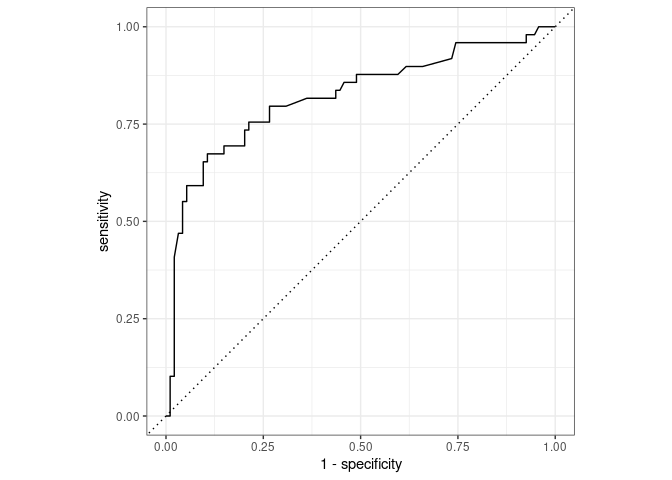
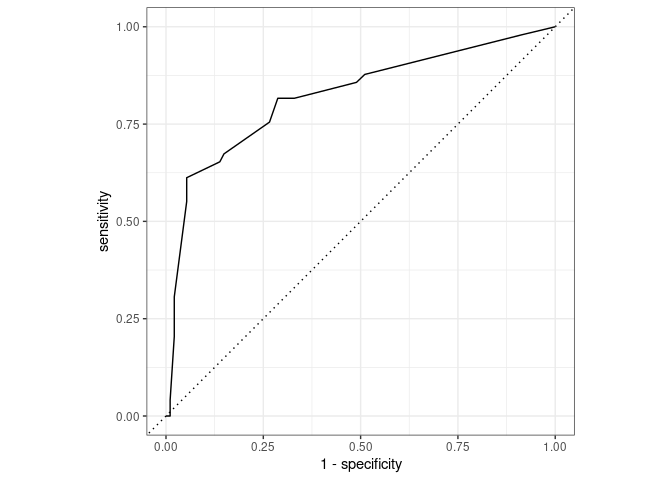
worked on model within presentation

diff --git a/presentation/presentation.html b/presentation/presentation.html
@@ -43,15 +43,13 @@ class: center, middle, inverse, title-slide
 - Bibliography
 
 ---
-
 "Touted as the ultimate in transatlantic travel and said to be “unsinkable”, the Titanic collided with an iceberg on 14 April 1912 on her maiden voyage and sank shortly thereafter on 15 April, killing 1502 out of 2224 passengers and crew." [1]
 
 We want to see 
 
 ### If and how the chance of survival of Titanic passengers is related to different attributes of the passengers 
 
---- 
-
+---
 # Data set
 * The data set comes from the Awesome Public Data Sets on GitHub[2]
 
@@ -162,13 +160,123 @@ class: inverse, center, middle
 
 
 
+### Modelling Survival
++ **predictor/explanatory variables**:
+  + Age
+  + Passenger class
+  + Gender
++ **ID variable**: passenger ID
++ **response variable**: survival
+  + categorical, two levels ...
+{{content}}
+--
+`\(\rightarrow\)` **logistic regression modelling**
+--
 
+```
+## # A tibble: 7 × 5
+##   term         estimate std.error statistic  p.value
+##   &lt;chr&gt;           &lt;dbl&gt;     &lt;dbl&gt;     &lt;dbl&gt;    &lt;dbl&gt;
+## 1 (Intercept)      4.51     0.549      8.22 2.08e-16
+## 2 Pclass_X2       -1.40     0.311     -4.52 6.27e- 6
+## 3 Pclass_X3       -2.53     0.298     -8.52 1.67e-17
+## 4 Sex_male        -2.69     0.245    -11.0  4.88e-28
+## 5 Age_X.6.18.     -1.80     0.530     -3.39 6.88e- 4
+## 6 Age_X.18.54.    -1.71     0.451     -3.78 1.54e- 4
+## 7 Age_X.54.80.    -2.80     0.647     -4.33 1.52e- 5
+```
+---
+.pull-left[
+### Modelling Survival: Interpretation
+Note: using main effects (vs. interactions) `\(\rightarrow\)` results can still be interpreted with 3 explanatory variables. 
++ **Intercept**: 
+    &gt; A positive value of the intercept indicates that a female, first class passenger, aged 0 to 6 is expected to survive according to the model.
+]
 
+.pull-right[
 
+```
+## # A tibble: 7 × 5
+##   term         estimate std.error statistic  p.value
+##   &lt;chr&gt;           &lt;dbl&gt;     &lt;dbl&gt;     &lt;dbl&gt;    &lt;dbl&gt;
+## 1 (Intercept)      4.51     0.549      8.22 2.08e-16
+## 2 Pclass_X2       -1.40     0.311     -4.52 6.27e- 6
+## 3 Pclass_X3       -2.53     0.298     -8.52 1.67e-17
+## 4 Sex_male        -2.69     0.245    -11.0  4.88e-28
+## 5 Age_X.6.18.     -1.80     0.530     -3.39 6.88e- 4
+## 6 Age_X.18.54.    -1.71     0.451     -3.78 1.54e- 4
+## 7 Age_X.54.80.    -2.80     0.647     -4.33 1.52e- 5
+```
+]
 
+  + **coefficents** for *Class*: 
 
+    &gt; All else held constant, second class passengers correspond to a negative coefficent which reflects a lower likelyhood of survival compared to first class passengers.
+      + Similarly, third class passengers have an even more negative gradient which indicates that the model predicts them to have an even lower likelyhood of survival. 
+  
+  + **coefficent** for *Gender*:
+  
+    &gt; All else held constant, male passengers correspond to a negative coefficent which reflects a lower likelyhood of survival compared to female passengers.
+      
+  + **coefficents** for *Age*: 
 
+    &gt; All else held constant, compared to passengers aged 0-6 ('young children'), passengers in age range from 6 to 18 ('adolescents')are expected to be less likely to survive. 
+      + similarly, passengers aged 18 to 54 ('adults') are also less likely to survive (similar gradeint to 6-18)
+      + passengers aged 54 to 80 ('elderly people') are even less likely to survive than the other age ranges
+    
+---
 
+```
+## # A tibble: 143 × 4
+##    .pred_0 .pred_1 Survived PassengerId
+##      &lt;dbl&gt;   &lt;dbl&gt; &lt;fct&gt;          &lt;int&gt;
+##  1   0.473  0.527  0                  7
+##  2   0.919  0.0812 0                 13
+##  3   0.424  0.576  1                 16
+##  4   0.434  0.566  1                 26
+##  5   0.473  0.527  0                 36
+##  6   0.198  0.802  0                 42
+##  7   0.456  0.544  0                 50
+##  8   0.198  0.802  1                 54
+##  9   0.919  0.0812 0                 58
+## 10   0.785  0.215  0                 71
+## # … with 133 more rows
+```
+---
+.pull-left[
+&lt;img src="presentation_files/figure-html/titanic-roc-curve-1.png" width="80%" /&gt;
+]
+.pull-right[
+
+|                         | Not Survived| Survived|
+|:------------------------|------------:|--------:|
+|predicted not to survive |           89|       20|
+|Predicted to survive     |            5|       29|
+]
+---
+.pull-left[
+
+```
+## # A tibble: 1 × 3
+##   .metric .estimator .estimate
+##   &lt;chr&gt;   &lt;chr&gt;          &lt;dbl&gt;
+## 1 rsq     standard       0.333
+```
+
+```
+## # A tibble: 1 × 3
+##   .metric .estimator .estimate
+##   &lt;chr&gt;   &lt;chr&gt;          &lt;dbl&gt;
+## 1 rmse    standard        1.03
+```
+]
+.pull-right[
++ The Sphere: popular British illustrated weekly newspaper (1900-1964). It was dedicated to worldwide reporting on popular issues. 
+{{content}}
+]
+--
++  Bron’s graph is an early innovation in data display:
+{{content}}
 ---
 
 class: inverse, center, middle
@@ -187,7 +295,6 @@ class: inverse, center, middle
 + The Sphere: popular British illustrated weekly newspaper (1900-1964). It was dedicated to worldwide reporting on popular issues. 
 {{content}}
 ]
-
 --
 + G. Bron, graphic artist, used data released the week before by the House of Commons for the visualisation pubblished on 4 May 1912, **three weeks after the Titanic disaster**
 {{content}}
@@ -195,28 +302,16 @@ class: inverse, center, middle
 +  Bron’s graph is an early innovation in data display:
 {{content}}
 --
-
     + each subgroup is shown by a bar whose area is proportional to the numbers of cases
 {{content}}   
-
--- 
-
+--
     + Within the passenger classes, the bars are subdivided by gender for adults, while children are shown as a separate group. 
 {{content}}
-
 --
-
     + It also includes summary panels, showing the totals for passengers and crew.
 {{content}}
-  
 --
-
 +  Today, we might describe this as an early form of a mosaic plot, or as an area-proportional back-to-back array of bar charts
-
-
-
-
-
 ---
 
 

diff --git a/extra/modelfitting.md b/extra/modelfitting.md
@@ -5,12 +5,13 @@ XEM Team
 turning survived into factor variable
 
 ``` r
-titanic <- titanic %>%
-  mutate(Survived = factor(Survived))
+titanicm <- titanic %>%
+  mutate(Survived = factor(Survived)) %>%
+  mutate(Pclass = factor(Pclass)) 
 ```
 
 ``` r
-titanic_age_na <- titanic %>%
+titanic_age_na <- titanicm %>%
   filter(!is.na(Age))
 ```
 
@@ -26,11 +27,11 @@ test_data  <- testing(titanic_split)
 build recipe
 
 ``` r
-titanic_rec <- recipe(Survived ~ ., data = titanic) %>%
+titanic_rec <- recipe(Survived ~ ., data = titanicm) %>%
   # PassengerId isn't predictor, but keep around to ID
   update_role(PassengerId, new_role = "ID") %>%
   # remove name and cabin
-  step_rm(Name, Ticket, Cabin) %>%
+  step_rm(Name, Ticket, Cabin, SibSp, Parch, Fare, Embarked) %>%
   # remove NAs for step cut to work
   step_filter(!is.na(Age)) %>%
   # discretise age variable
@@ -52,8 +53,8 @@ define workflow
 
 ``` r
 titanic_wflow <- workflow() %>% 
-  add_model(titanic_mod) %>% 
-  add_recipe(titanic_rec)
+add_model(titanic_mod) %>% 
+add_recipe(titanic_rec)
 ```
 
 fit model to training data
@@ -64,21 +65,31 @@ titanic_fit <- titanic_wflow %>%
 tidy(titanic_fit)
 ```
 
-    ## # A tibble: 12 × 5
-    ##    term          estimate std.error statistic  p.value
-    ##    <chr>            <dbl>     <dbl>     <dbl>    <dbl>
-    ##  1 (Intercept)   19.0     602.         0.0316 9.75e- 1
-    ##  2 Pclass        -1.13      0.178     -6.37   1.94e-10
-    ##  3 SibSp         -0.543     0.163     -3.33   8.77e- 4
-    ##  4 Parch         -0.292     0.161     -1.82   6.94e- 2
-    ##  5 Fare           0.00270   0.00296    0.911  3.62e- 1
-    ##  6 Sex_male      -2.94      0.270    -10.9    1.50e-27
-    ##  7 Age_X.6.18.   -2.72      0.649     -4.19   2.84e- 5
-    ##  8 Age_X.18.54.  -2.84      0.592     -4.80   1.55e- 6
-    ##  9 Age_X.54.80.  -4.07      0.776     -5.25   1.56e- 7
-    ## 10 Embarked_C   -11.7     602.        -0.0194 9.84e- 1
-    ## 11 Embarked_Q   -12.3     602.        -0.0203 9.84e- 1
-    ## 12 Embarked_S   -12.2     602.        -0.0202 9.84e- 1
+    ## # A tibble: 7 × 5
+    ##   term         estimate std.error statistic  p.value
+    ##   <chr>           <dbl>     <dbl>     <dbl>    <dbl>
+    ## 1 (Intercept)      4.51     0.549      8.22 2.08e-16
+    ## 2 Pclass_X2       -1.40     0.311     -4.52 6.27e- 6
+    ## 3 Pclass_X3       -2.53     0.298     -8.52 1.67e-17
+    ## 4 Sex_male        -2.69     0.245    -11.0  4.88e-28
+    ## 5 Age_X.6.18.     -1.80     0.530     -3.39 6.88e- 4
+    ## 6 Age_X.18.54.    -1.71     0.451     -3.78 1.54e- 4
+    ## 7 Age_X.54.80.    -2.80     0.647     -4.33 1.52e- 5
+
+-   **Slope - volume:** *All else held constant*, for each additional
+    cubic centimetre books are larger in volume, we would expect the
+    weight to be higher, on average, by 0.718 grams.
+    -   in this case it makes sense for this to change independently
+        change but sometimes this assumption isn’t reasonable (e.g. rain
+        and humidity)
+-   **Slope - cover:** *All else held constant*, paperback books are
+    weigh, on average, by 184 grams less than hardcover books.
+-   **Intercept:** Hardcover books with 0 volume are expected to weigh
+    198 grams, on average
+    -   (Doesn’t make sense in context.)
+
+    For each unit increase in x, y is expected on average to be
+    higher/lower by a factor of e^{b_1}“.
 
 predict test data
 
@@ -91,16 +102,16 @@ titanic_pred
     ## # A tibble: 143 × 4
     ##    .pred_0 .pred_1 Survived PassengerId
     ##      <dbl>   <dbl> <fct>          <int>
-    ##  1   0.475  0.525  0                  7
-    ##  2   0.908  0.0923 0                 13
-    ##  3   0.358  0.642  1                 16
-    ##  4   0.783  0.217  1                 26
-    ##  5   0.609  0.391  0                 36
-    ##  6   0.217  0.783  0                 42
-    ##  7   0.435  0.565  0                 50
-    ##  8   0.215  0.785  1                 54
-    ##  9   0.862  0.138  0                 58
-    ## 10   0.759  0.241  0                 71
+    ##  1   0.473  0.527  0                  7
+    ##  2   0.919  0.0812 0                 13
+    ##  3   0.424  0.576  1                 16
+    ##  4   0.434  0.566  1                 26
+    ##  5   0.473  0.527  0                 36
+    ##  6   0.198  0.802  0                 42
+    ##  7   0.456  0.544  0                 50
+    ##  8   0.198  0.802  1                 54
+    ##  9   0.919  0.0812 0                 58
+    ## 10   0.785  0.215  0                 71
     ## # … with 133 more rows
 
 roc curve
@@ -117,7 +128,7 @@ cutoff probability
 
 ``` r
 cutoff_prob <- 0.6
-cutoff_table <- titanic_pred %>%
+titanic_pred %>%
   mutate(
     Survived      = if_else(Survived == 1, "Survived", "Not survived"),
     titanic_pred  = if_else(.pred_1 > cutoff_prob, "Predicted to survive", "predicted not to survive")
@@ -126,3 +137,28 @@ cutoff_table <- titanic_pred %>%
   pivot_wider(names_from = Survived, values_from = n) %>%
   kable(col.names = c("", "Not Survived", "Survived"))
 ```
+
+|                          | Not Survived | Survived |
+|:-------------------------|-------------:|---------:|
+| predicted not to survive |           89 |       20 |
+| Predicted to survive     |            5 |       29 |
+
+r squared and rmse
+
+``` r
+rsq(titanic_pred, truth = as.numeric(Survived), estimate = .pred_1)
+```
+
+    ## # A tibble: 1 × 3
+    ##   .metric .estimator .estimate
+    ##   <chr>   <chr>          <dbl>
+    ## 1 rsq     standard       0.333
+
+``` r
+rmse(titanic_pred, truth = as.numeric(Survived), estimate = .pred_1)
+```
+
+    ## # A tibble: 1 × 3
+    ##   .metric .estimator .estimate
+    ##   <chr>   <chr>          <dbl>
+    ## 1 rmse    standard        1.03
